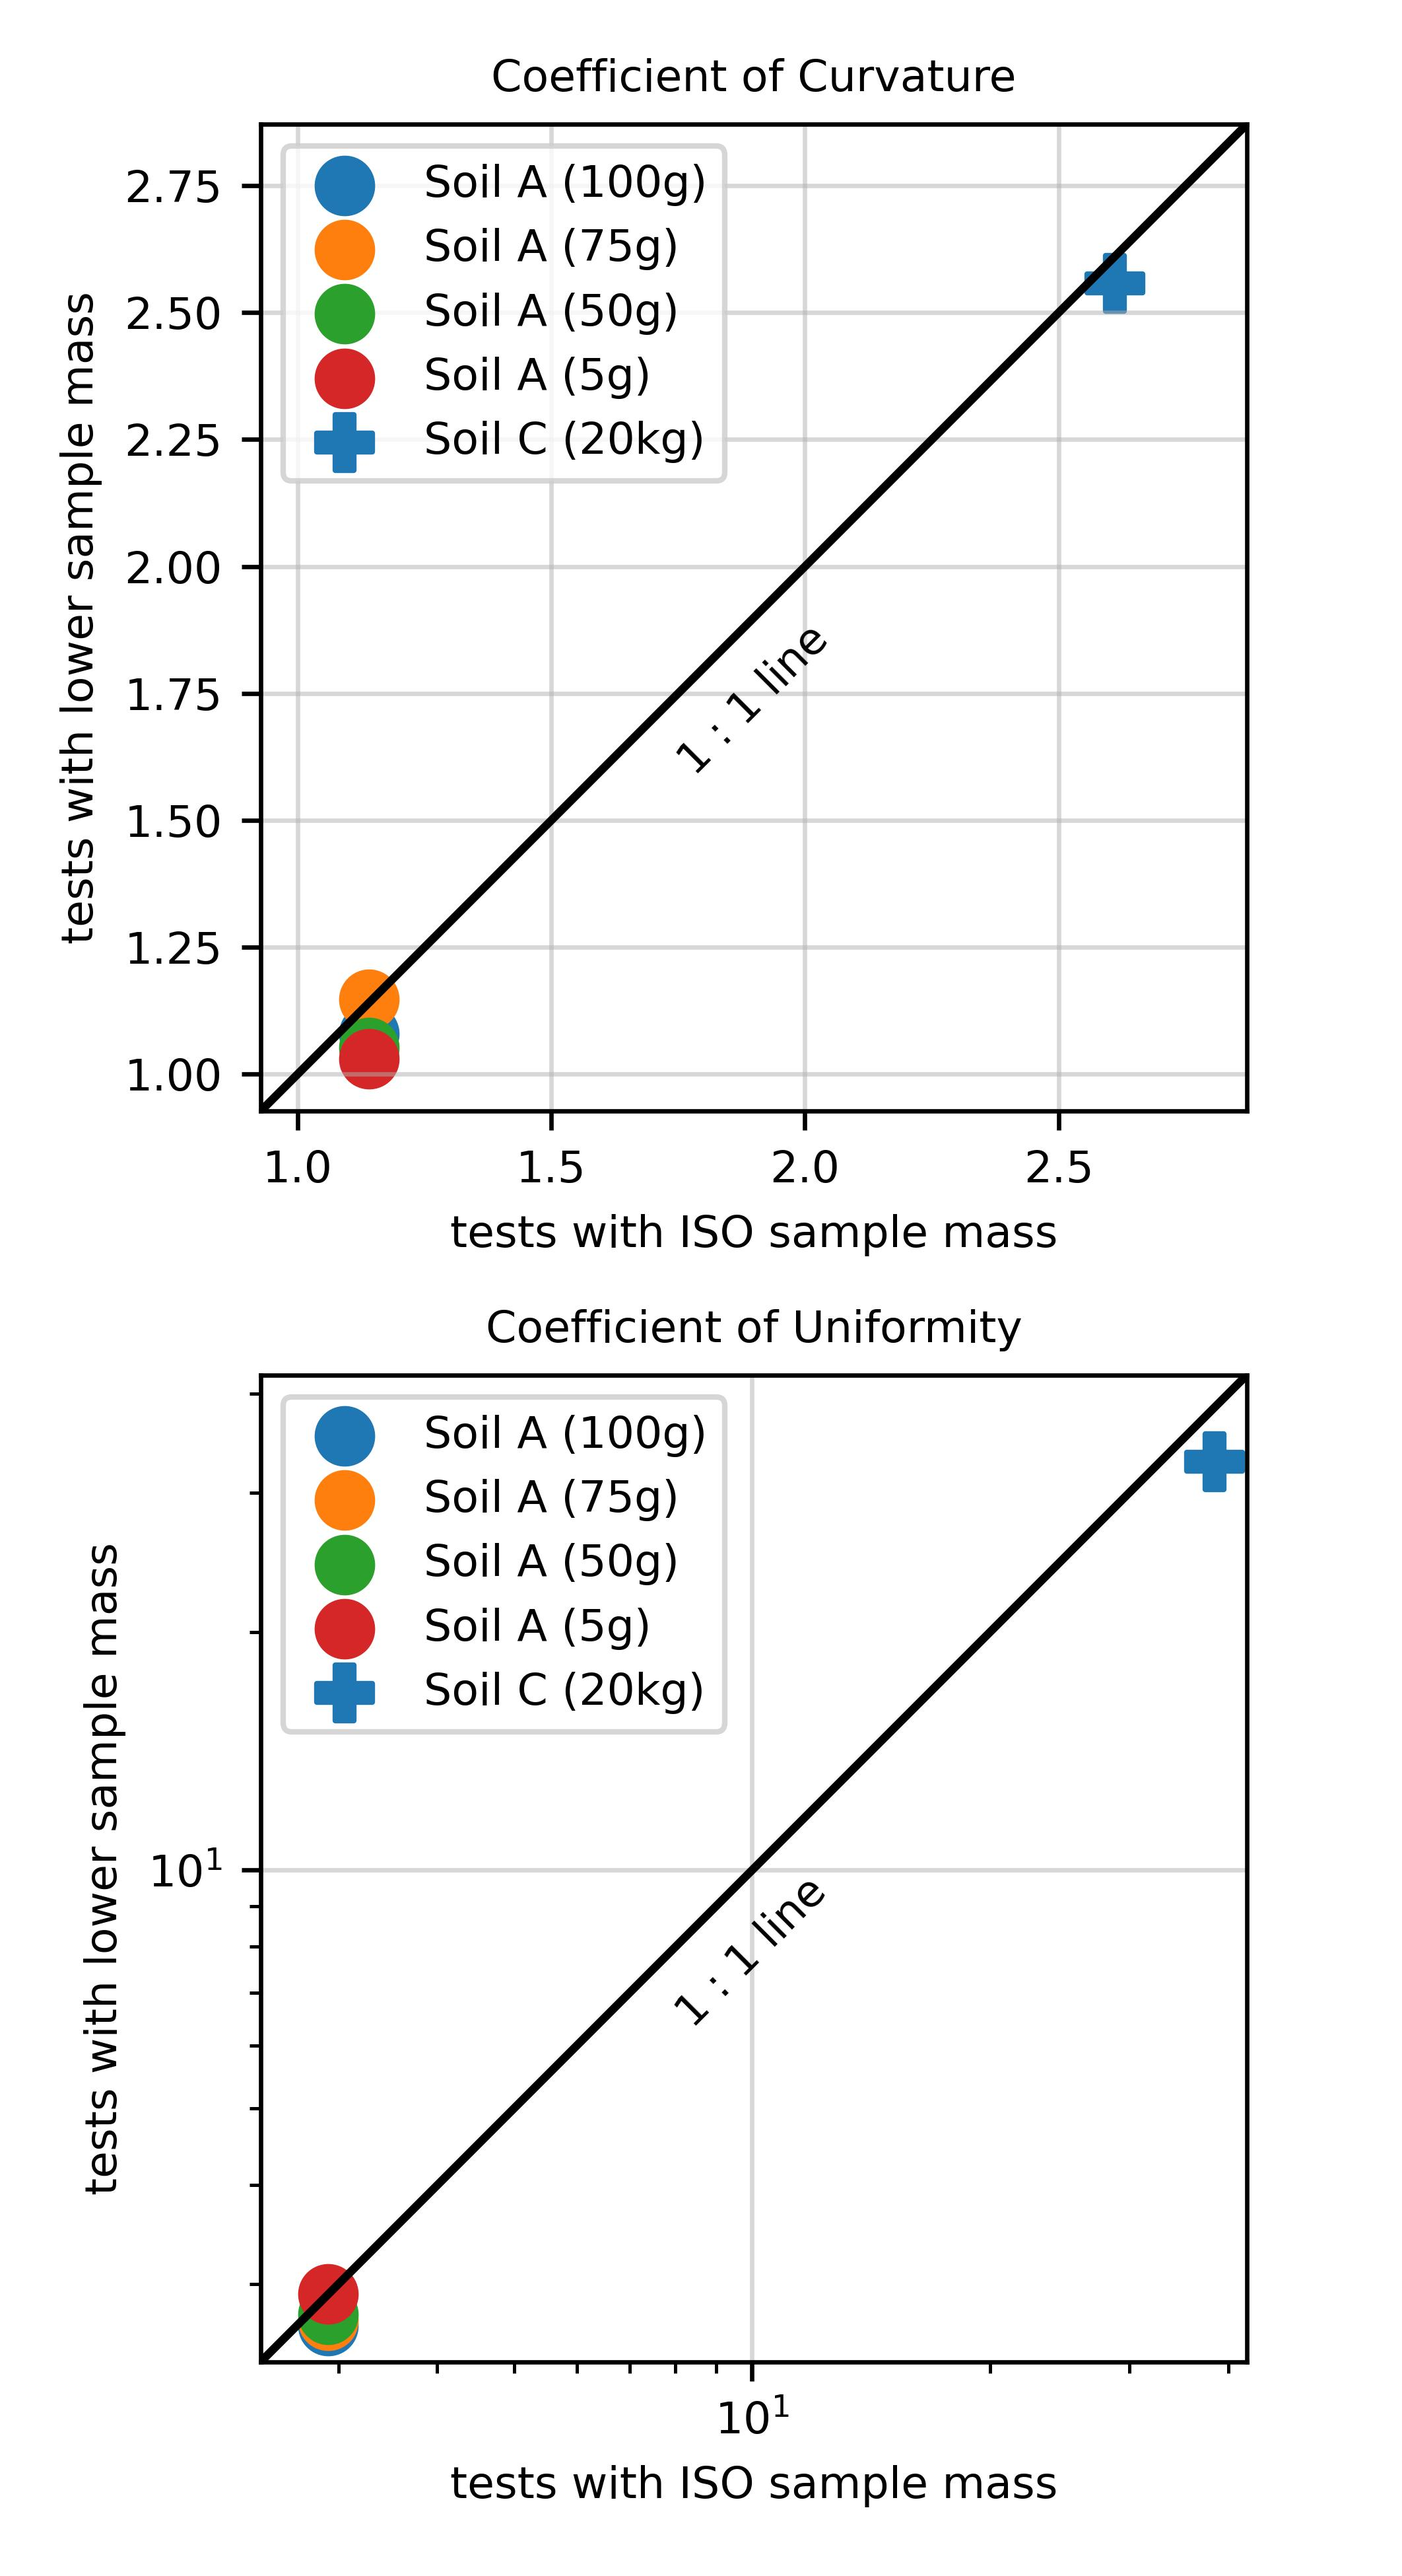
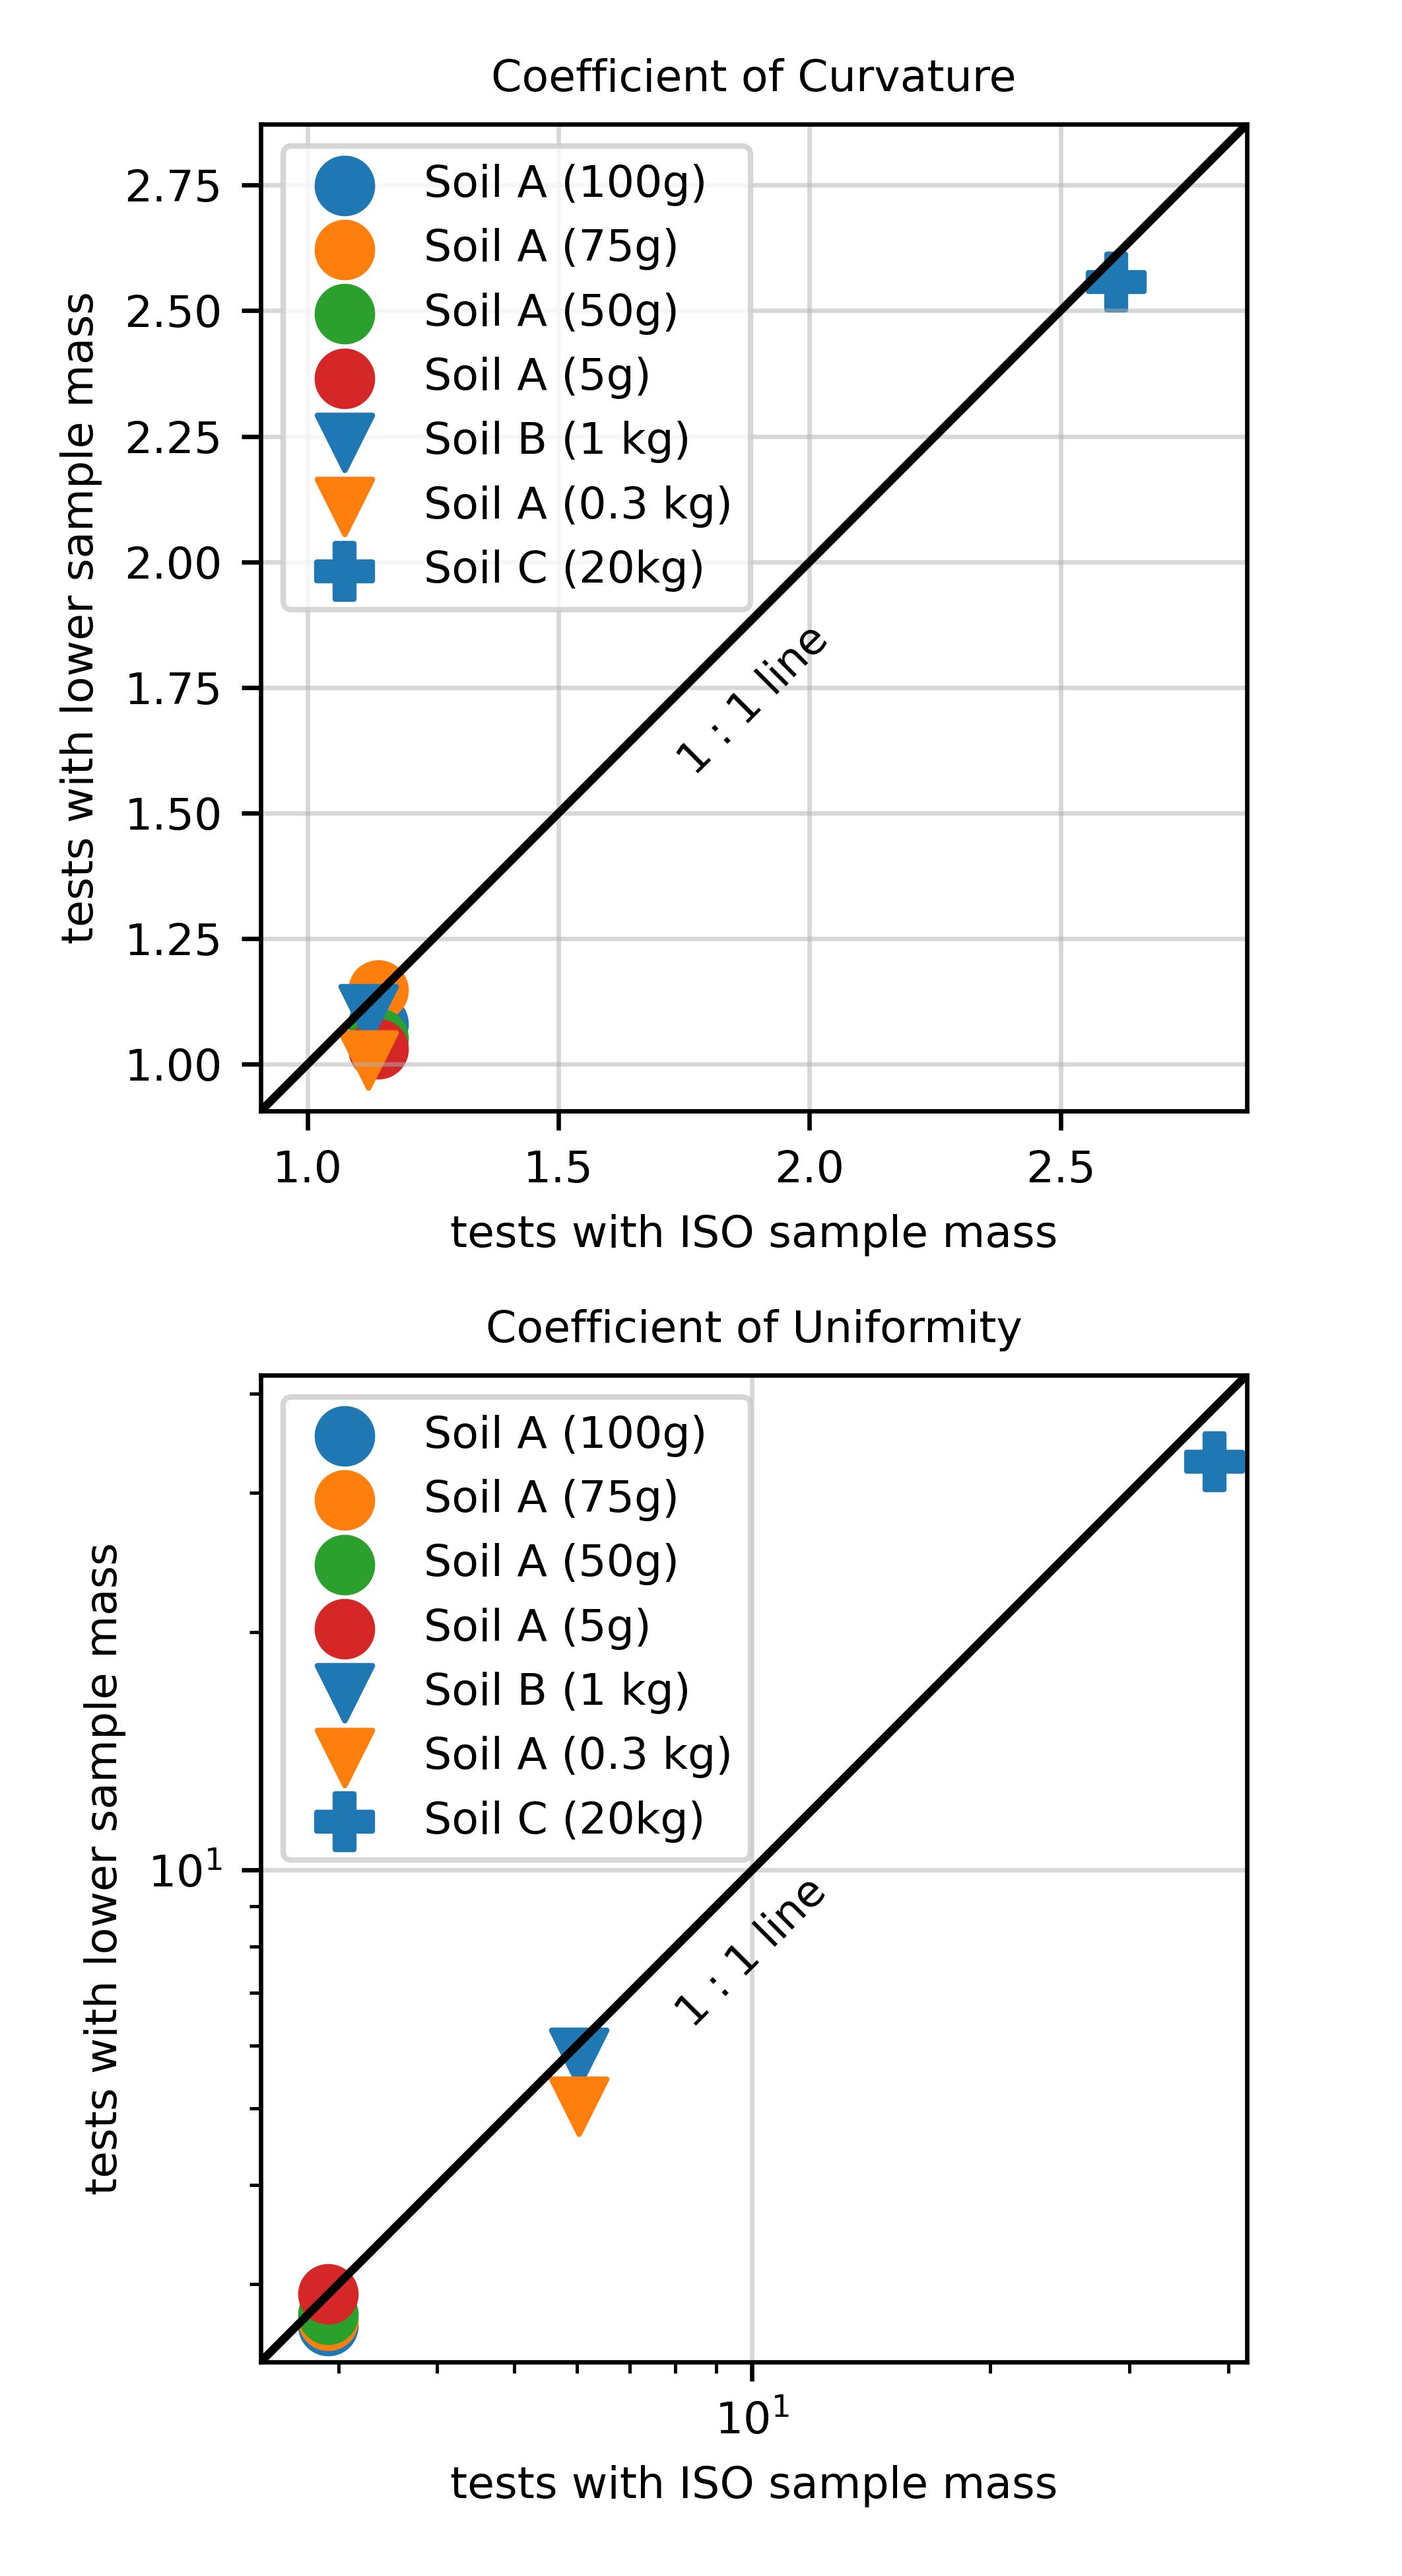
New lab results code update
Code update to also include the latest lab results from soil B. Some minor additions to X_library are also included where e.g. functions and classes got descriptions and type hints where it was missing.

diff --git a/src/X_library.py b/src/X_library.py
@@ -21,6 +21,7 @@ from tqdm import tqdm
 
 
 class statistics:
+    '''class with use case specfic statistical functions'''
 
     def ks_statistic(self, sieve_curve1: list, sieve_curve2: list) -> float:
         '''calculate Kolmogorov-Smirnov (KS) statistic for 2 sieve curves'''
@@ -29,6 +30,7 @@ class statistics:
 
 
 class laboratory(statistics):
+    '''class with functions for simulating laboratory sieve tests'''
 
     def ISO_required_sample_mass(self, d_max: float) -> float:
         '''calculate required sample mass acc. to ISO 17892-4'''
@@ -241,6 +243,7 @@ class laboratory(statistics):
 
 
 class utilities:
+    '''class with general purpose functions that do not fit anywhere else'''
 
     def CheckForLess(self, list1, val):
         '''function checks if any of values in list1 is smaller than val'''
@@ -249,20 +252,21 @@ class utilities:
                 return False
         return True
 
-    def exponential(self, x, a, b):
+    def exponential(self, x: np.array, a: float, b: float) -> np.array:
+        '''exponential function'''
         return a * np.exp(b*x)
 
-    def fit_exponential(self, x, y):
-        # Perform the curve fit
-        p0 = [100, -1]
-        params, _ = curve_fit(self.exponential, x, y, p0=p0)
-
-        # Extract the fitted parameters
-        a_fit, b_fit = params
+    def fit_exponential(self, x: np.array, y: np.array) -> tuple:
+        '''functions fits an exponential function to x and y data and yields
+        fitted parameters'''
+        p0 = [100, -1]  # initial guess
+        params, _ = curve_fit(self.exponential, x, y, p0=p0)  # curve fitting
+        a_fit, b_fit = params  # Extract the fitted parameters
         return a_fit, b_fit
 
 
 class plotter(laboratory, utilities):
+    '''class with functions for data and result plotting'''
 
     def __init__(self):
         self.fsize = 8  # main font size for plots
@@ -352,6 +356,9 @@ class plotter(laboratory, utilities):
     def req_sample_mass_vs_dmax_plot(self, df: pd.DataFrame, savepath: str,
                                      annotate_all=False, annotate_some=None,
                                      close: bool = True) -> None:
+        '''plot shows results from Monte-Carlo simulation where the required
+        sample mass to achieve a certain KS error is scattered against the soil
+        d_max'''
         dmaxs = np.arange(200)
         req_ISO = [self.ISO_required_sample_mass(dmax)/1000 for dmax in dmaxs]
         req_ASTM = [self.ASTM_required_sample_mass(dmax)/1000 for dmax in dmaxs]
@@ -437,6 +444,9 @@ class plotter(laboratory, utilities):
     def req_sample_mass_vs_d90_plot(self, df, savepath: str,
                                     annotate_some=None,
                                     close: bool = True) -> None:
+        '''plot shows results from Monte-Carlo simulation where the required
+        sample mass to achieve a certain KS error is scattered against the soil
+        d90'''
         fig, ax = plt.subplots(figsize=(3.54331, 3))
 
         divider = make_axes_locatable(ax)
@@ -486,6 +496,8 @@ class plotter(laboratory, utilities):
 
     def exponents_plot(self, df: pd.DataFrame, savepath: str,
                        close: bool = True) -> None:
+        '''plot that shows the different error exponents in relation to
+        parameters like minimum required smaple mass, d90, and KS error'''
         # compute statistics
         results = {}
         for exp in np.arange(1, 2.6, step=0.1):
@@ -522,13 +534,15 @@ class plotter(laboratory, utilities):
 
         ax2.scatter(exponents, med_errors,  # label=r'$KS_{med}$',
                     color='black', alpha=0.7, s=12)
-        label = r'$KS_{{med}}={}*e^{{({}*\epsilon)}}$'.format(round(med_a, 2), round(med_b, 2))
+        label = r'$KS_{{med}}={}*e^{{({}*\epsilon)}}$'.format(round(med_a, 2),
+                                                              round(med_b, 2))
         ax2.plot(exponents,
                  self.exponential(np.array(exponents), med_a, med_b),
                  label=label, color='black')
         ax2.scatter(exponents, p95_errors,  # label=r'$KS_{p95}$',
                     color='black', alpha=0.7, s=12)
-        label = r'$KS_{{p95}}={}*e^{{({}*\epsilon)}}$'.format(round(p95_a, 2), round(p95_b, 2))
+        label = r'$KS_{{p95}}={}*e^{{({}*\epsilon)}}$'.format(round(p95_a, 2),
+                                                              round(p95_b, 2))
         ax2.plot(exponents,
                  self.exponential(np.array(exponents), p95_a, p95_b),
                  label=label, color='black', ls='--')
@@ -582,21 +596,31 @@ class plotter(laboratory, utilities):
 
     def real_sieve_curves_plot(self, savepath: str,
                                close: bool = True) -> None:
+        '''function that plots the real laboratory sieve tests based on an
+        excel file'''
         fp = r'../laboratory/LabResults.xlsx'
-        df = pd.read_excel(fp, header=2, nrows=13, usecols=list(range(1, 9)))
+        df = pd.read_excel(fp, header=2, nrows=13, usecols=list(range(1, 12)))
         self.headers = list(df.columns)
 
         fig, ax = self.make_sieve_plot()
-
-        ax.plot(df['Sieve size Ø [mm]'], df['Soil C (ISO)'],
-                lw=3, color='C1', label='Soil C (ISO), 50 kg')
-        ax.plot(df['Sieve size Ø [mm]'], df['Soil C'],
-                lw=1.5, color='C1', alpha=0.5, label='Soil C, 20 kg')
 
         ax.plot(df['Sieve size Ø [mm]'], df['Soil A (ISO)'],
                 lw=3, color='C0', label='Soil A (ISO), 200 g')
         ax.plot(df['Sieve size Ø [mm]'], df['Soil A (5g)'],
                 lw=1.5, color='C0', alpha=0.5, label='Soil A, 5 g')
+
+        ax.plot(df['Sieve size Ø [mm]'], df['Soil B (ISO)'],
+                lw=3, color='C1', label='Soil B (ISO), 9 kg')
+        ax.plot(df['Sieve size Ø [mm]'], df['Soil B (1000g)'],
+                lw=1.5, color='C1', alpha=0.5, label='Soil B, 1 kg')
+        ax.plot(df['Sieve size Ø [mm]'], df['Soil B (300g)'],
+                lw=1.5, color='C1', ls='--', alpha=0.5, label='Soil B, 0.3 kg')
+
+        ax.plot(df['Sieve size Ø [mm]'], df['Soil C (ISO)'],
+                lw=3, color='C2', label='Soil C (ISO), 50 kg')
+        ax.plot(df['Sieve size Ø [mm]'], df['Soil C'],
+                lw=1.5, color='C2', alpha=0.5, label='Soil C, 20 kg')
+
         ax.legend(loc='upper left')
 
         plt.tight_layout()
@@ -606,8 +630,11 @@ class plotter(laboratory, utilities):
 
     def real_sieve_curves_scatter(self, savepath: str,
                                   close: bool = True) -> None:
+        '''function that creates a scatter plot that scatters Cc and Cu from
+        ISO sample masses against smaller sample masses'''
         fp = r'../laboratory/LabResults.xlsx'
-        df = pd.read_excel(fp, skiprows=20, nrows=2, usecols=list(range(1, 9)))
+        df = pd.read_excel(fp, skiprows=20, nrows=2,
+                           usecols=list(range(1, 12)))
         self.headers[0] = 'parameter'
         df.columns = self.headers
         df.set_index('parameter', inplace=True)
@@ -631,6 +658,13 @@ class plotter(laboratory, utilities):
         ax1.scatter(df['Soil A (ISO)'].loc['Cc'],
                     df['Soil A (5g)'].loc['Cc'],
                     label='Soil A (5g)', s=ms, marker='o', color='C3')
+
+        ax1.scatter(df['Soil B (ISO)'].loc['Cc'],
+                    df['Soil B (1000g)'].loc['Cc'],
+                    label='Soil B (1 kg)', s=ms, marker='v', color='C0')
+        ax1.scatter(df['Soil B (ISO)'].loc['Cc'],
+                    df['Soil B (300g)'].loc['Cc'],
+                    label='Soil A (0.3 kg)', s=ms, marker='v', color='C1')
 
         ax1.scatter(df['Soil C (ISO)'].loc['Cc'], df['Soil C'].loc['Cc'],
                     label='Soil C (20kg)', s=ms, marker='P', color='C0')
@@ -664,6 +698,13 @@ class plotter(laboratory, utilities):
         ax2.scatter(df['Soil A (ISO)'].loc['Cu'],
                     df['Soil A (5g)'].loc['Cu'],
                     label='Soil A (5g)', s=ms, marker='o', color='C3')
+
+        ax2.scatter(df['Soil B (ISO)'].loc['Cu'],
+                    df['Soil B (1000g)'].loc['Cu'],
+                    label='Soil B (1 kg)', s=ms, marker='v', color='C0')
+        ax2.scatter(df['Soil B (ISO)'].loc['Cu'],
+                    df['Soil B (300g)'].loc['Cu'],
+                    label='Soil A (0.3 kg)', s=ms, marker='v', color='C1')
 
         ax2.scatter(df['Soil C (ISO)'].loc['Cu'], df['Soil C'].loc['Cu'],
                     label='Soil C (20kg)', s=ms, marker='P', color='C0')
